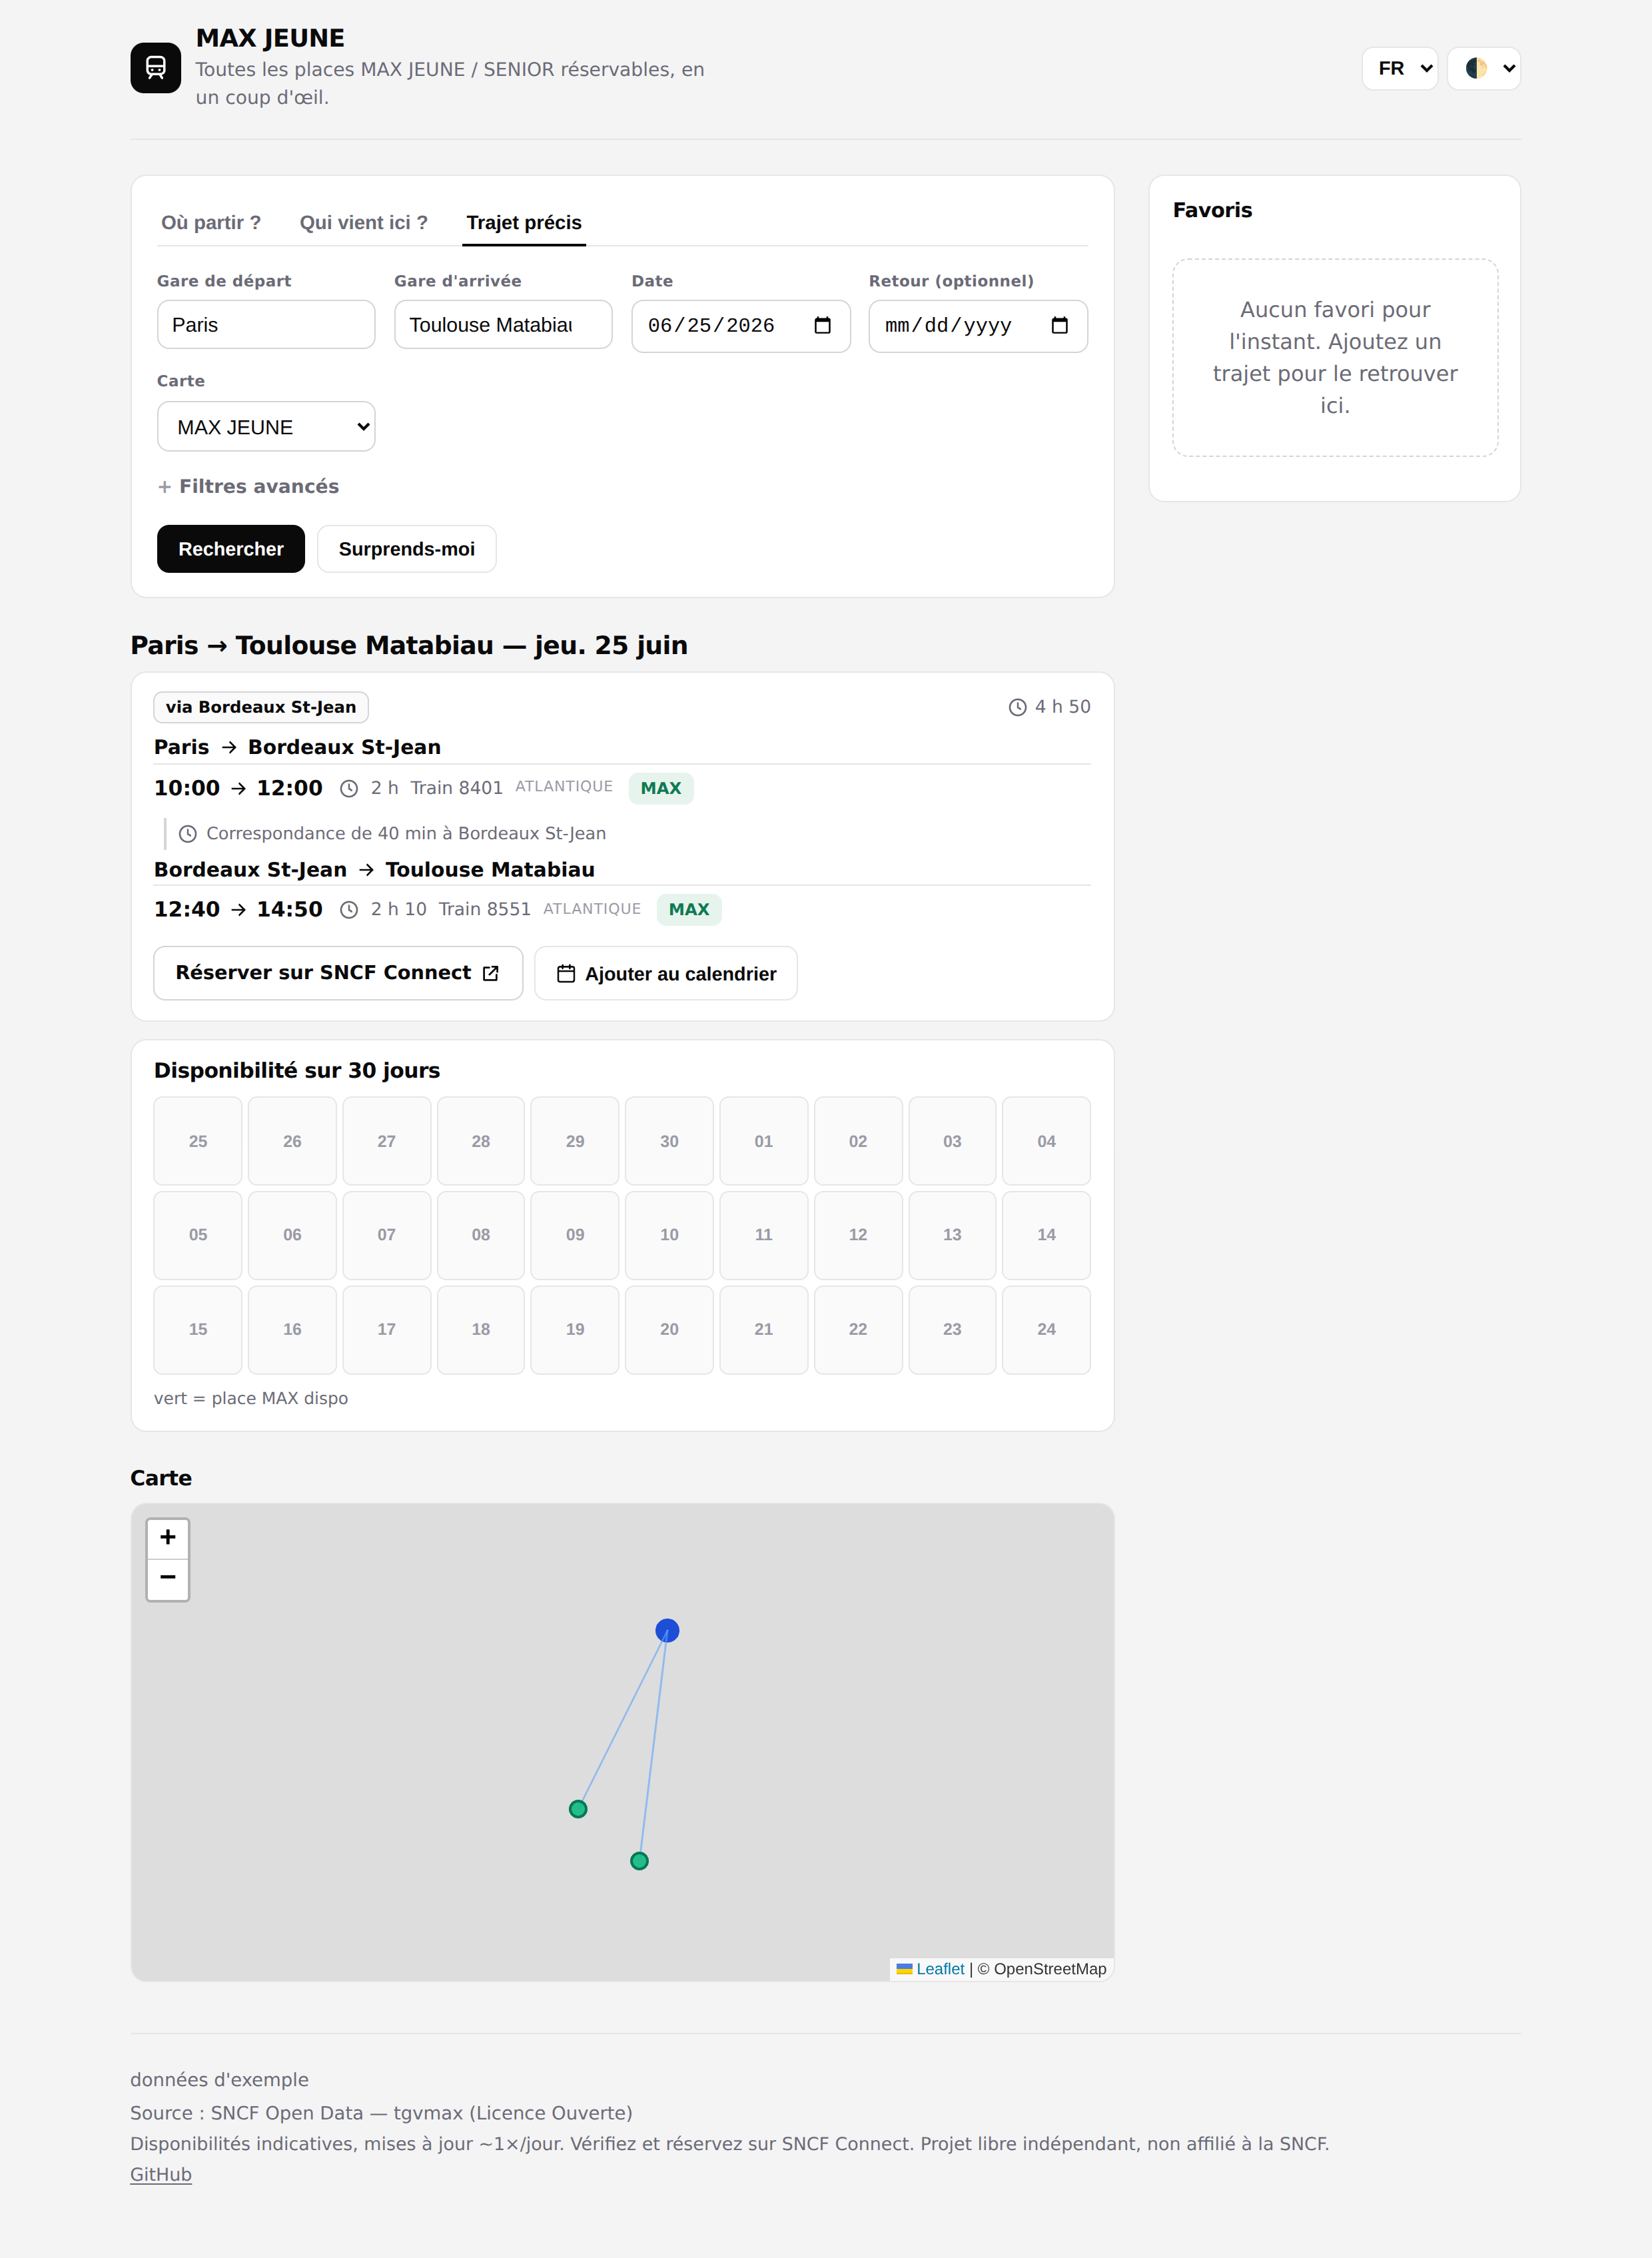
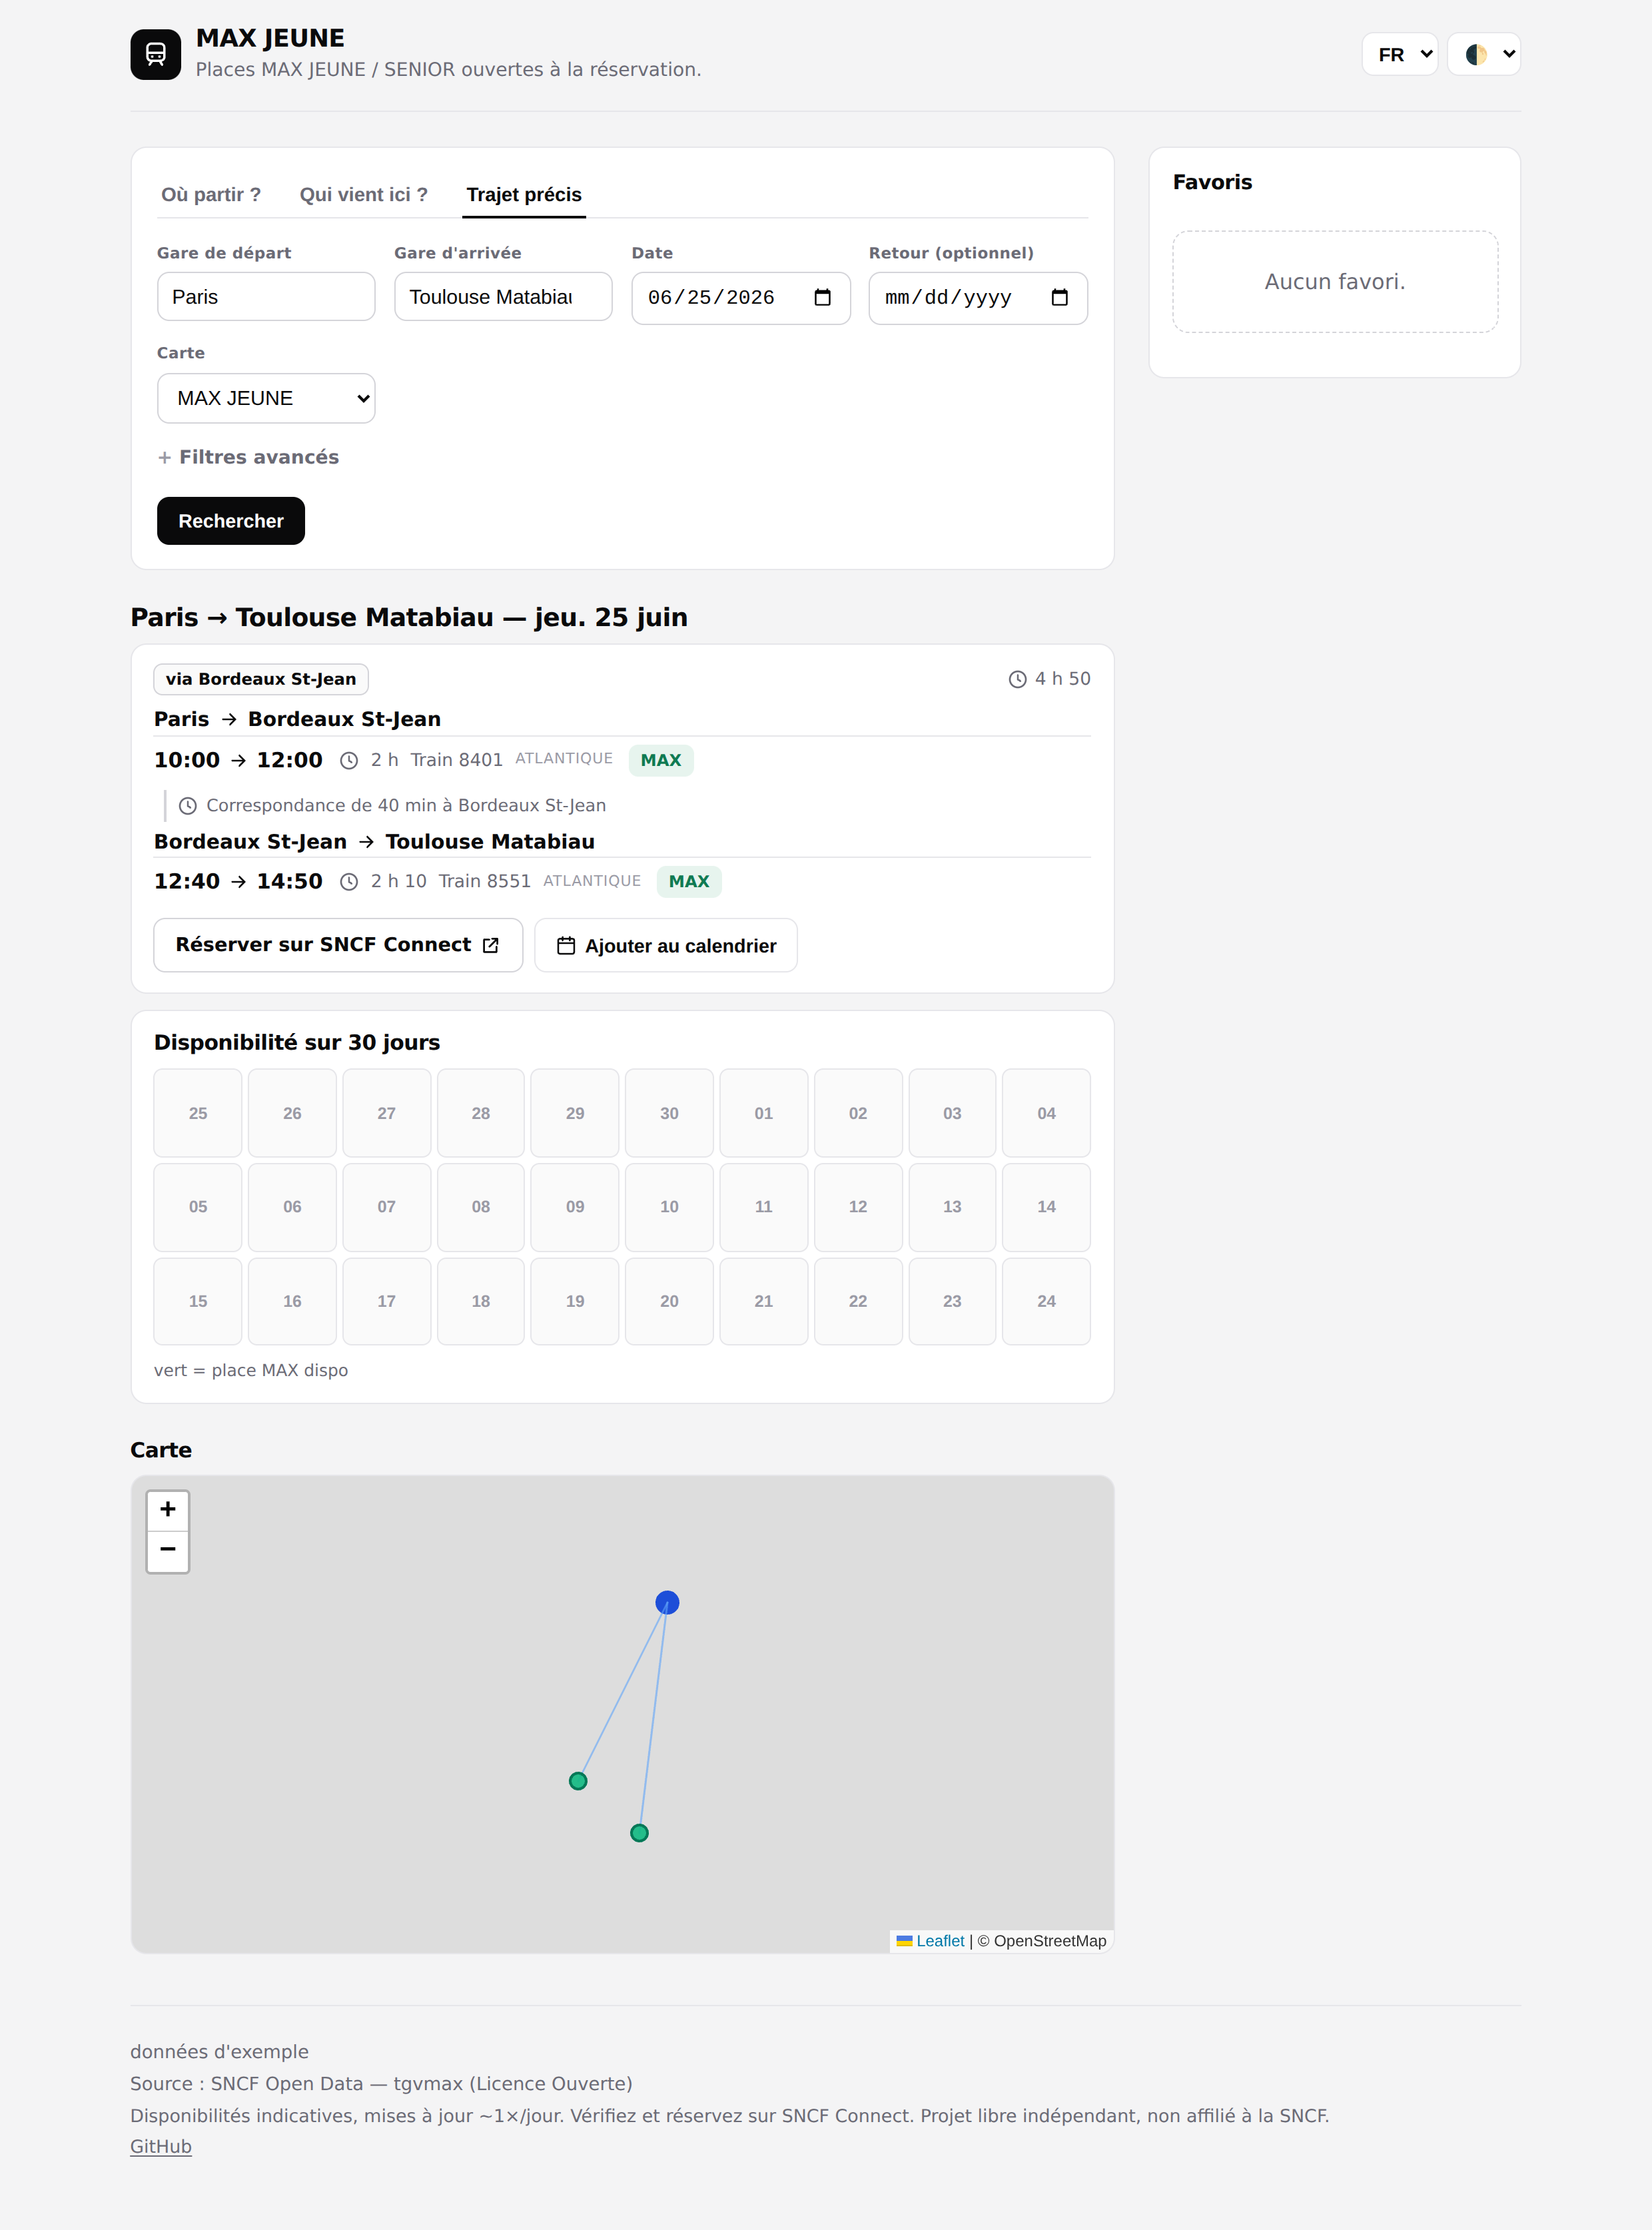
Strip marketing copy; remove gimmick; tighten UI text
- Factual tagline (no 'at a glance' catchphrase).
- Remove the 'Surprise me' random button.
- Terser empty/no-result states; functional empty-search prompt.

build OK, 26 tests passing.

Claude-Session: https://claude.ai/code/session_01GjYKzVUaZR1Awer3K9BTXW

diff --git a/src/app.ts b/src/app.ts
@@ -260,7 +260,7 @@ function runOdSearch(c: RenderCtx): void {
 }
 
 function showHint(input: HTMLInputElement): void {
-  refs.title.textContent = t("tagline");
+  refs.title.textContent = t("prompt_pick");
   input.focus();
 }
 
@@ -271,19 +271,6 @@ function showMap(hub: string, others: string[]): void {
 }
 
 // --- surprise & watched -----------------------------------------------------
-
-function surprise(): void {
-  const origin = resolveStation(refs.origin.value) ?? "PARIS (intramuros)";
-  const groups = reachableDestinations(deps.trains, origin, refs.date.value || query.date);
-  if (groups.length === 0) {
-    refs.title.textContent = t("surprise_none");
-    return;
-  }
-  const pick = groups[Math.floor(Math.random() * groups.length)]!;
-  query = { ...query, mode: "od", origin, destination: pick.station };
-  syncFormFromQuery();
-  applyAndRun();
-}
 
 function checkWatchedRoutes(): void {
   const watched = store.loadWatched();
@@ -479,12 +466,6 @@ function buildForm(): FormBuild {
   ]);
 
   const searchBtn = el("button", { class: "btn btn-primary", type: "submit", text: t("btn_search") });
-  const surpriseBtn = el("button", {
-    class: "btn btn-ghost",
-    type: "button",
-    text: t("btn_surprise"),
-    on: { click: surprise },
-  });
 
   const form = el("form", { class: "search-form" }, [
     modeTabs,
@@ -496,7 +477,7 @@ function buildForm(): FormBuild {
       field(t("field_card"), card),
     ]),
     advanced,
-    el("div", { class: "form-actions" }, [searchBtn, surpriseBtn]),
+    el("div", { class: "form-actions" }, [searchBtn]),
     stationList,
   ]);
   form.addEventListener("submit", (e) => {

diff --git a/src/i18n/en.ts b/src/i18n/en.ts
@@ -2,7 +2,8 @@ import type { Dict } from "./fr";
 
 export const en: Dict = {
   appName: "MAX JEUNE",
-  tagline: "Every reservable MAX JEUNE / SENIOR seat, at a glance.",
+  tagline: "MAX JEUNE / SENIOR seats open for reservation.",
+  prompt_pick: "Choose a departure station.",
 
   mode_from: "Where to?",
   mode_to: "Who comes here?",
@@ -30,7 +31,7 @@ export const en: Dict = {
   res_from_title: "Departing {station} — {date}",
   res_to_title: "Arriving at {station} — {date}",
   res_od_title: "{origin} → {destination} — {date}",
-  res_none: "No MAX seat found. Try another date or enable connections.",
+  res_none: "No MAX seat for these criteria.",
   res_destinations: "{n} destination(s)",
   res_origins: "{n} origin(s)",
   badge_trains: "{n} train(s)",
@@ -62,7 +63,7 @@ export const en: Dict = {
   rt_none: "No MAX round trip for these dates.",
 
   fav_title: "Favorites",
-  fav_none: "No favorites yet. Add a trip to find it here.",
+  fav_none: "No favorites.",
 
   map_title: "Map",
 

diff --git a/src/i18n/fr.ts b/src/i18n/fr.ts
@@ -1,6 +1,7 @@
 export const fr = {
   appName: "MAX JEUNE",
-  tagline: "Toutes les places MAX JEUNE / SENIOR réservables, en un coup d'œil.",
+  tagline: "Places MAX JEUNE / SENIOR ouvertes à la réservation.",
+  prompt_pick: "Choisissez une gare de départ.",
 
   mode_from: "Où partir ?",
   mode_to: "Qui vient ici ?",
@@ -28,7 +29,7 @@ export const fr = {
   res_from_title: "Au départ de {station} — {date}",
   res_to_title: "Pour arriver à {station} — {date}",
   res_od_title: "{origin} → {destination} — {date}",
-  res_none: "Aucune place MAX trouvée. Essayez une autre date ou activez les correspondances.",
+  res_none: "Aucune place MAX pour ces critères.",
   res_destinations: "{n} destination(s)",
   res_origins: "{n} origine(s)",
   badge_trains: "{n} train(s)",
@@ -60,7 +61,7 @@ export const fr = {
   rt_none: "Aucun aller-retour MAX pour ces dates.",
 
   fav_title: "Favoris",
-  fav_none: "Aucun favori pour l'instant. Ajoutez un trajet pour le retrouver ici.",
+  fav_none: "Aucun favori.",
 
   map_title: "Carte",
 

diff --git a/README.md b/README.md
@@ -17,7 +17,7 @@ SNCF Connect.
 
 The hard part — *which trains actually have a free MAX seat* — is published by SNCF as
 open data (the [`tgvmax` dataset](https://ressources.data.sncf.com/explore/dataset/tgvmax/information/)).
-This app is a nice, fast frontend over that dataset. No backend, no accounts, no cost.
+This app is a frontend over that dataset. No backend, no accounts, no cost.
 
 ## Features
 